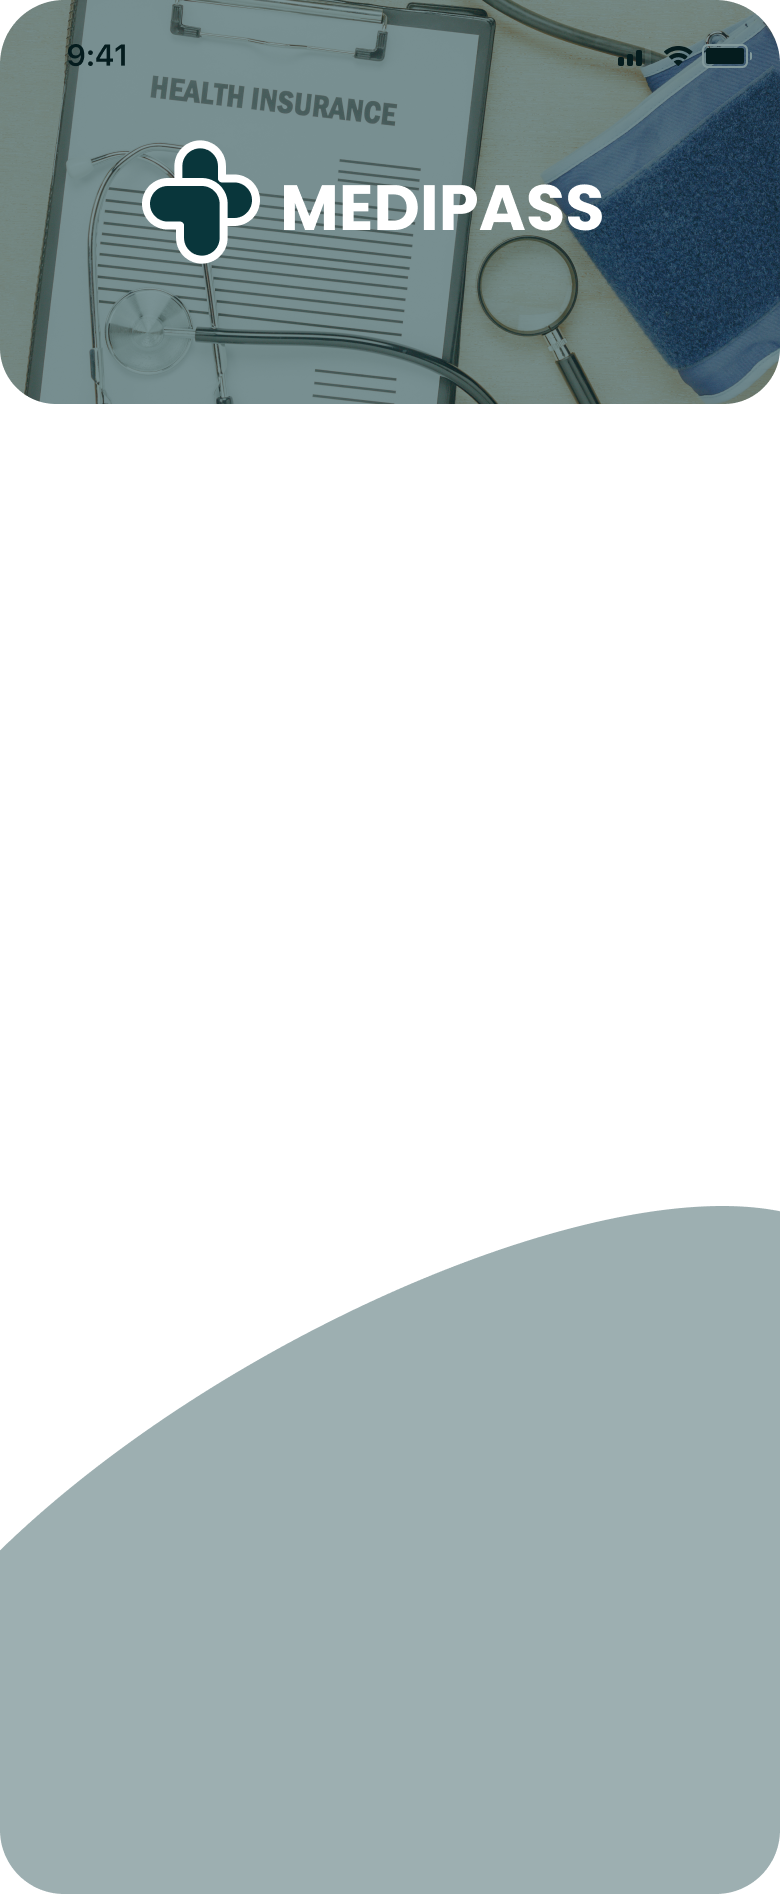
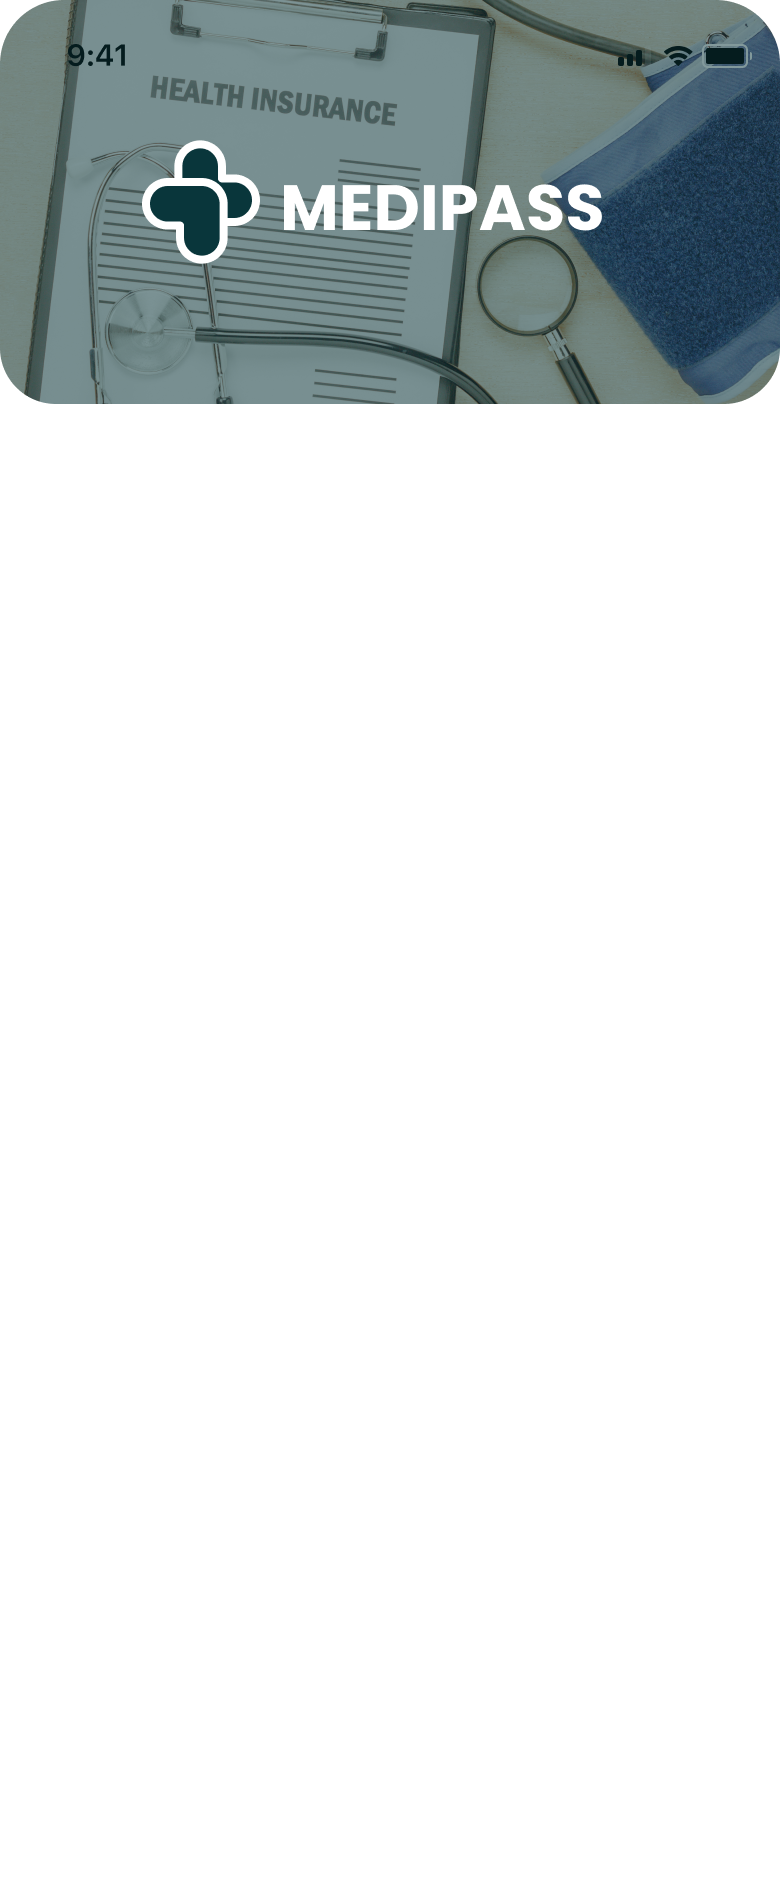
Authentication-signup

diff --git a/medi/pages/auth/Signup.tsx b/medi/pages/auth/Signup.tsx
@@ -3,19 +3,18 @@ import {
     StyleSheet,
     View,
     ScrollView,
-    Text,
-    ImageBackground,
-    Dimensions,
-    StatusBar,
+    Image,
     SafeAreaView,
+    Dimensions,
+    Text,
+    ImageBackground
 } from "react-native";
 import { useNavigation } from "@react-navigation/native";
 import { StackNavigationProp } from "@react-navigation/stack";
-import CustomSubmitButton from "@/components/authInputs/SubmitButton";
 import InputField from "@/components/authInputs/AuthInput";
-import { Link } from "expo-router";
-
-const { height, width } = Dimensions.get('window');
+import CustomSubmitButton from "@/components/authInputs/SubmitButton";
+import DateInputField from "@/components/authInputs/DateInputField";
+import { Svg, Path, Rect, Circle, Defs, Pattern, Use, G, ClipPath } from "react-native-svg";
 
 export const Signup = () => {
     const navigation = useNavigation<StackNavigationProp<any>>();
@@ -24,101 +23,158 @@ export const Signup = () => {
         navigation.navigate('Signup');
     };
 
+    const handleSignin = () => {
+        navigation.navigate('Login');
+    };
+
+    const handleWelcome = () => {
+        navigation.navigate('Welcome');
+    };
+
     return (
         <View style={styles.container}>
-            {/* Transparent Status Bar */}
-            <StatusBar translucent backgroundColor="transparent" barStyle="light-content" />
+            <SafeAreaView style={styles.safeArea}>
+                <ScrollView contentContainerStyle={styles.scrollContent}>
+                    <View style={styles.headerbg}>
+                        <Image source={require('@/assets/images/up-bg.png')} style={styles.headerImage} />
+                    </View>
+                    <View style={styles.inputWrapper}>
+                        <View style={styles.submitwrapper}>
+                            <CustomSubmitButton
+                                buttonText="Sign In"
+                                textColor="#09363B"
+                                backgroundColor="#E5E4E2"
+                                onPress={handleSignin}
+                            />
+                            <CustomSubmitButton
+                                buttonText="Sign Up"
+                                onPress={handlePress}
+                            />
 
-            {/* Fixed background image */}
-            <ImageBackground
-                source={require('../../assets/images/signup-bg.png')}
-                style={styles.background}
-                resizeMode="cover"
-            >
-                {/* Safe Area for proper spacing */}
-                <SafeAreaView style={styles.safeArea}>
-                    <ScrollView
-                        style={styles.scrollView}
-                        contentContainerStyle={styles.scrollContent}
-                    >
-                        <Text style={styles.header}>Signup page</Text>
-                        {/* You can place other components here */}
-                        <CustomSubmitButton buttonText="Sign Up" onPress={handlePress} />
-                    </ScrollView>
-                </SafeAreaView>
-            </ImageBackground>
+                        </View>
+                        <View style={styles.submitwrapper}>
+                            <InputField
+                                label="First Name"
+                                inputType="text"
+                            />
+                            <InputField
+                                label="LastName"
+                                inputType="text"
+                            />
+                        </View>
+                        <View style={styles.submitwrapper}>
+                            <InputField
+                                label="Gender"
+                                inputType="text"
+                            />
+                            <DateInputField
+                                label="Date Of Birth"
+                                inputType="date"
+                            />
+                        </View>
+                        <View style={styles.wrapper}>
+                            <InputField
+                                label="National Identification Number "
+                                inputType="text"
+                            />
+                        </View>
+                        <View style={styles.wrap}>
+                            <Svg width="18" height="18" viewBox="0 0 18 18" fill="none">
+                                <Path d="M9 0C7.21997 0 5.47991 0.527841 3.99987 1.51677C2.51983 2.50571 1.36628 3.91131 0.685088 5.55585C0.00389956 7.20038 -0.17433 9.00998 0.172937 10.7558C0.520203 12.5016 1.37737 14.1053 2.63604 15.364C3.89472 16.6226 5.49836 17.4798 7.24419 17.8271C8.99002 18.1743 10.7996 17.9961 12.4442 17.3149C14.0887 16.6337 15.4943 15.4802 16.4832 14.0001C17.4722 12.5201 18 10.78 18 9C18 6.61305 17.0518 4.32386 15.364 2.63604C13.6761 0.948211 11.387 0 9 0ZM9.9 14.4H8.1V12.6H9.9V14.4ZM9.9 10.8H8.1V3.6H9.9V10.8Z" fill="#09363B" fill-opacity="0.51" />
+                            </Svg>
+                            <Text style={{ fontSize: 12 }}>Use your affiliate’s identification number if you have none.</Text>
+                        </View>
+                        <ImageBackground
+      source={require('@/assets/images/bottom-bg.png')} // Replace with your actual image path
+      style={styles.backgroundWrapper}
+    >
+      <View style={styles.submitwrapper}>
+        <InputField label="Insurance Provider" inputType="text" />
+        <InputField label="Insurance ID" inputType="text" />
+      </View>
+
+      <View style={styles.wrapper}>
+        <InputField label="Password" inputType="password" />
+      </View>
+
+      <View style={styles.wrapper}>
+        <InputField label="Confirm Password" inputType="password" />
+      </View>
+    <View style={styles.wrapperl}>
+    <CustomSubmitButton
+                                buttonText="Sign Up"
+                                onPress={handlePress}
+                            />
+    </View>
+    </ImageBackground>
+    
+                    </View>
+
+                </ScrollView>
+            </SafeAreaView>
         </View>
     );
 };
 
-export default Signup;
+const { height } = Dimensions.get("window");
 
 const styles = StyleSheet.create({
     container: {
         flex: 1,
-    },
-    // The background is fixed in place and covers the entire screen
-    background: {
-        position: 'absolute',  // Fix the background image in place
-        top: 0,
-        left: 0,
-        right: 0,
-        bottom: 0,
-        width: '100%',
-        height: '100%',
-        zIndex: -1,  
+        backgroundColor: '#fff'
     },
     safeArea: {
         flex: 1,
-        paddingTop: StatusBar.currentHeight || 0,
-        width: '100%',
     },
     scrollView: {
-        flex: 1,
-        width: '100%', // Ensure ScrollView takes full width
+        flexGrow: 1,
+        width: '100%',
     },
     scrollContent: {
-        paddingBottom: 20, // Optional, to add extra space at the bottom
+        // paddingBottom: 20,
     },
-    header: {
-        fontSize: 32,
-        color: '#fff',
-        fontWeight: 'bold',
-        textAlign: 'center',
-        paddingTop: 100, // Adjust the padding to move the content down if needed
+    headerbg: {
+        width: '100%',
+        height: height * 0.35,
     },
-    logoName: {
-        color: '#FFF',
-        fontSize: 32,
-        fontWeight: 'bold',
-    },
-    logoWrapper: {
-        flexDirection: 'row',
-        justifyContent: 'center',
-        alignItems: 'center',
-        gap: 10,
-        paddingTop: 25,
+    headerImage: {
+        width: '100%',
+        height: 202,
+        borderBottomLeftRadius: 28,
+        borderBottomRightRadius: 28
     },
     inputWrapper: {
-        paddingTop: 305,
-        gap: 15,
+
     },
     submitwrapper: {
         flexDirection: 'row',
         justifyContent: 'space-between',
         width: '100%',
-        paddingHorizontal: 5,
-    },
-    link: {
-        color: '#09363B',
-        fontSize: 15,
-        fontWeight: 'bold',
+        paddingHorizontal: 10,
+        gap: 10,
+        marginBottom: 15
     },
     wrapper: {
-        paddingHorizontal: 25,
+        paddingHorizontal: 10,
         gap: 10,
+        marginBottom: 15
+    },
+    wrapperl: {
+        paddingHorizontal: 10,
+        gap: 10,
+        paddingTop: 10
     },
     wrap: {
-        alignItems: 'flex-end',
+        paddingHorizontal: 10,
+        gap: 10,
+        flexDirection: 'row',
+        alignItems: 'center',
+        paddingBottom: 10
     },
+    backgroundWrapper: {
+        flex: 1,
+        paddingBottom: 40
+      },
 });
+
+export default Signup;

diff --git a/medi/components/authInputs/DateInputField.tsx b/medi/components/authInputs/DateInputField.tsx
@@ -1,0 +1,98 @@
+import React, { useState } from 'react';
+import { View, Text, TextInput, StyleSheet, TouchableOpacity, Image } from 'react-native';
+import { Svg, Path } from 'react-native-svg'; // Icon for the button
+import DateTimePicker from '@react-native-community/datetimepicker';
+
+interface InputFieldProps {
+  label: string;
+  inputType: 'text' | 'email' | 'password' | 'date';
+}
+
+const DateInputField: React.FC<InputFieldProps> = ({
+  label,
+  inputType,
+}) => {
+  const [date, setDate] = useState(new Date()); // Defaulting to current date
+  const [showDatePicker, setShowDatePicker] = useState(false);
+
+  const handleDateChange = (event: any, selectedDate?: Date) => {
+    const currentDate = selectedDate || date;
+    setShowDatePicker(false);
+    setDate(currentDate);
+  };
+
+  return (
+    <View style={styles.container}>
+      <Text style={styles.label}>{label}</Text>
+      <View style={styles.inputContainer}>
+        <TextInput
+          style={styles.input}
+          value={inputType === 'date' ? date.toLocaleDateString() : ''}
+          editable={false} // Prevent editing directly, we use the button to pick the date
+          placeholder={inputType === 'date' ? 'Select Date' : ''}
+        />
+        {inputType === 'date' && (
+          <TouchableOpacity
+            onPress={() => setShowDatePicker(true)}
+            style={styles.dateButton}
+          >
+            {/* <Svg width="15" height="16" viewBox="0 0 15 16" fill="#000">
+              <Path
+                d="M6.61364 8.29545H7.79545V12.1364M1 5.63636H14M10.4545 3.27272V0.909088M4.54545 3.27272V0.909088M2.18182 15.0909H12.8182C13.1316 15.0909 13.4322 14.9664 13.6539 14.7448C13.8755 14.5231 14 14.2225 14 13.9091V3.27272C14 2.95929 13.8755 2.65869 13.6539 2.43705C13.4322 2.21542 13.1316 2.09091 12.8182 2.09091H2.18182C1.86838 2.09091 1.56778 2.21542 1.34615 2.43705C1.12451 2.65869 1 2.95929 1 3.27272V13.9091C1 14.2225 1.12451 14.5231 1.34615 14.7448C1.56778 14.9664 1.86838 15.0909 2.18182 15.0909Z"
+                stroke="black"
+                strokeWidth="1.5"
+                strokeLinecap="round"
+                strokeLinejoin="round"
+              />
+            </Svg> */}
+            <Image source={require('@/assets/images/Calendar.png')}  />
+
+          </TouchableOpacity>
+        )}
+      </View>
+
+      {/* Date Picker */}
+      {showDatePicker && inputType === 'date' && (
+        <DateTimePicker
+          value={date}
+          mode="date"
+          display="default"
+          onChange={handleDateChange}
+        />
+      )}
+    </View>
+  );
+};
+
+const styles = StyleSheet.create({
+  container: {
+    width: '100%',
+    flex: 1,
+  },
+  label: {
+    fontSize: 15,
+    fontWeight: 'bold',
+    marginBottom: 12,
+  },
+  inputContainer: {
+    flexDirection: 'row',
+    alignItems: 'center',
+  },
+  input: {
+    height: 46,
+    flex: 1,
+    borderColor: '#09363B',
+    borderWidth: 1,
+    borderRadius: 28,
+    paddingHorizontal: 16,
+    fontSize: 16,
+    backgroundColor: '#fff',
+  },
+  dateButton: {
+    padding: 10,
+    position: 'absolute',
+    right: 10,
+  },
+});
+
+export default DateInputField;

diff --git a/medi/components/authInputs/AuthInput.tsx b/medi/components/authInputs/AuthInput.tsx
@@ -3,8 +3,7 @@ import { View, Text, TextInput, StyleSheet } from 'react-native';
 
 interface InputFieldProps {
   label: string;
-  inputType: 'text' | 'email' | 'password';
- 
+  inputType: 'text' | 'email' | 'password'; // Include password option
 }
 
 const InputField: React.FC<InputFieldProps> = ({
@@ -12,12 +11,13 @@ const InputField: React.FC<InputFieldProps> = ({
   inputType,
 }) => {
   return (
-    <View style={[styles.container, ]}>
+    <View style={styles.container}>
       <Text style={styles.label}>{label}</Text>
       <TextInput
         style={styles.input}
         keyboardType={inputType === 'email' ? 'email-address' : 'default'}
         autoCapitalize="none"
+        secureTextEntry={inputType === 'password'} // Make the input secure if it's a password
       />
     </View>
   );
@@ -26,6 +26,7 @@ const InputField: React.FC<InputFieldProps> = ({
 const styles = StyleSheet.create({
   container: {
     width: '100%',
+    flex: 1,
   },
   label: {
     fontSize: 15,
@@ -39,7 +40,7 @@ const styles = StyleSheet.create({
     borderRadius: 28,
     paddingHorizontal: 16,
     fontSize: 16,
-    backgroundColor: '#fff'
+    backgroundColor: '#fff',
   },
 });
 

diff --git a/medi/declarations.d.ts b/medi/declarations.d.ts
@@ -1,0 +1,5 @@
+declare module 'react-native-datepicker' {
+    const DatePicker: any;
+    export default DatePicker;
+  }
+  
